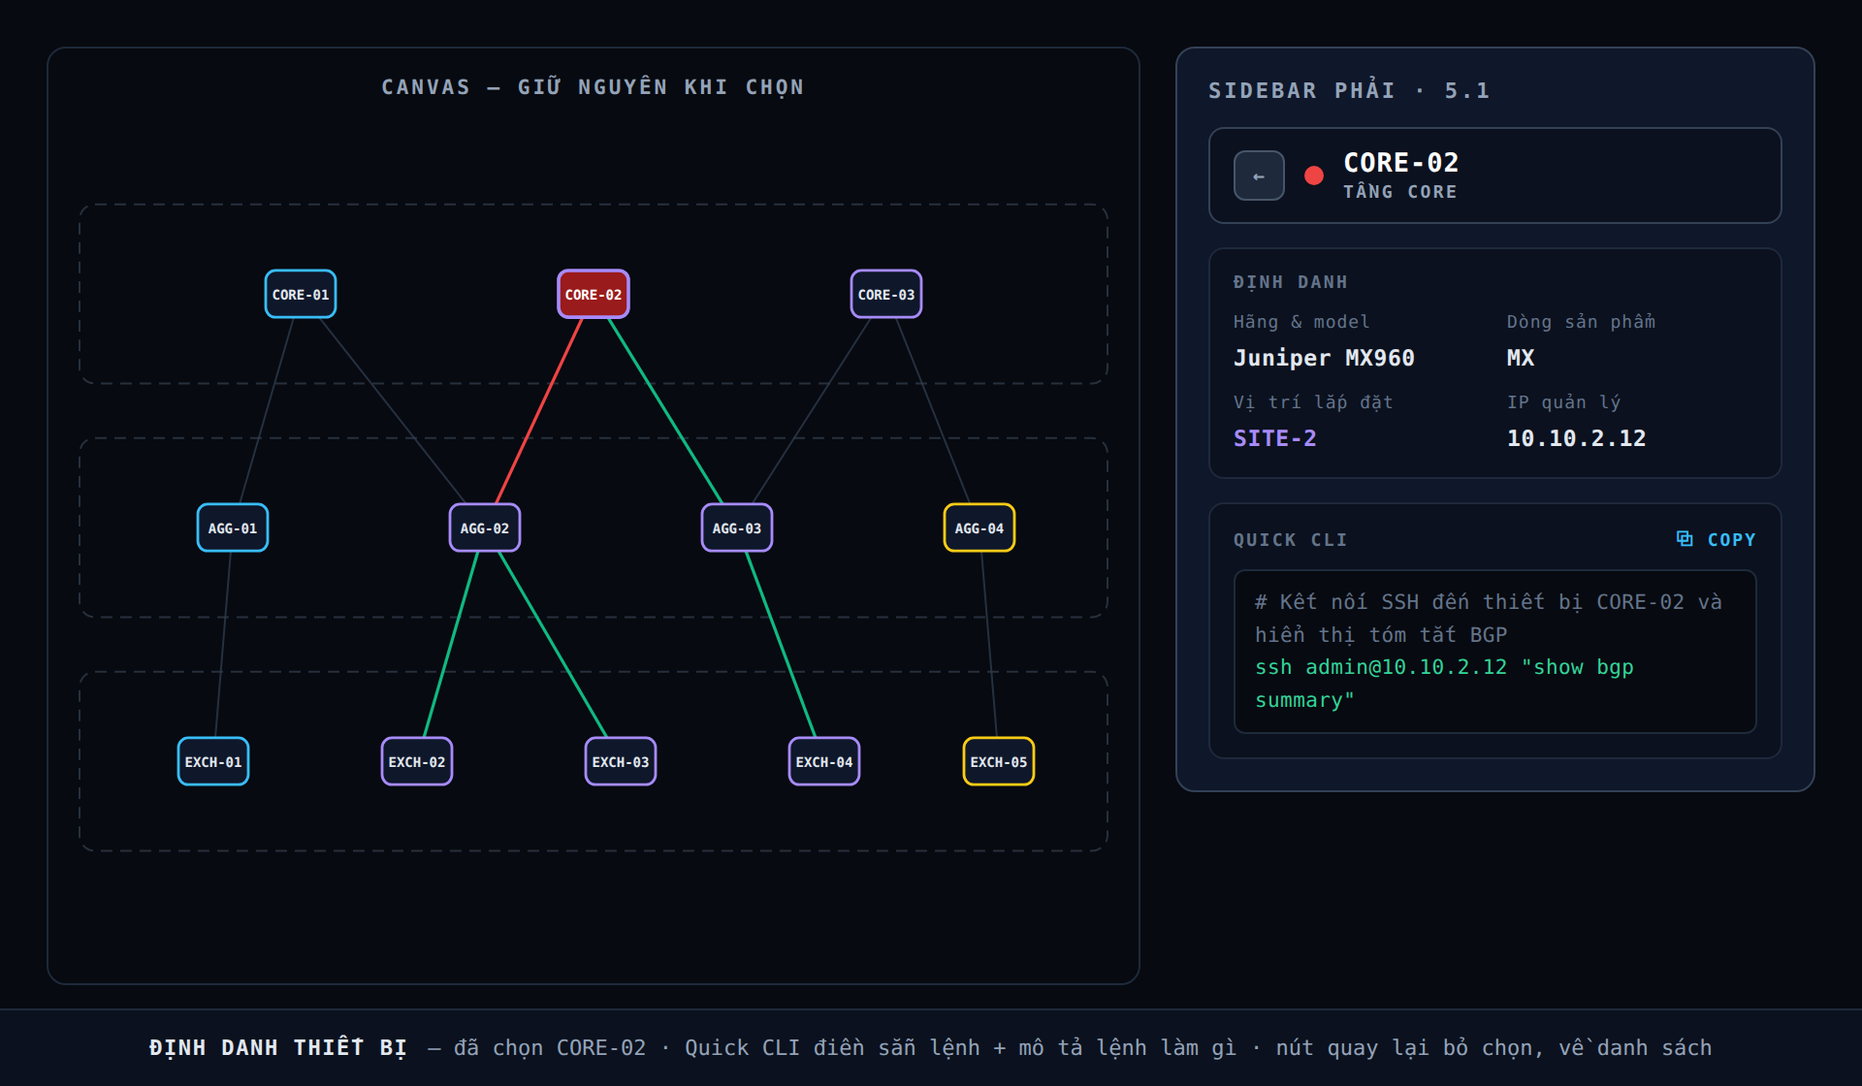
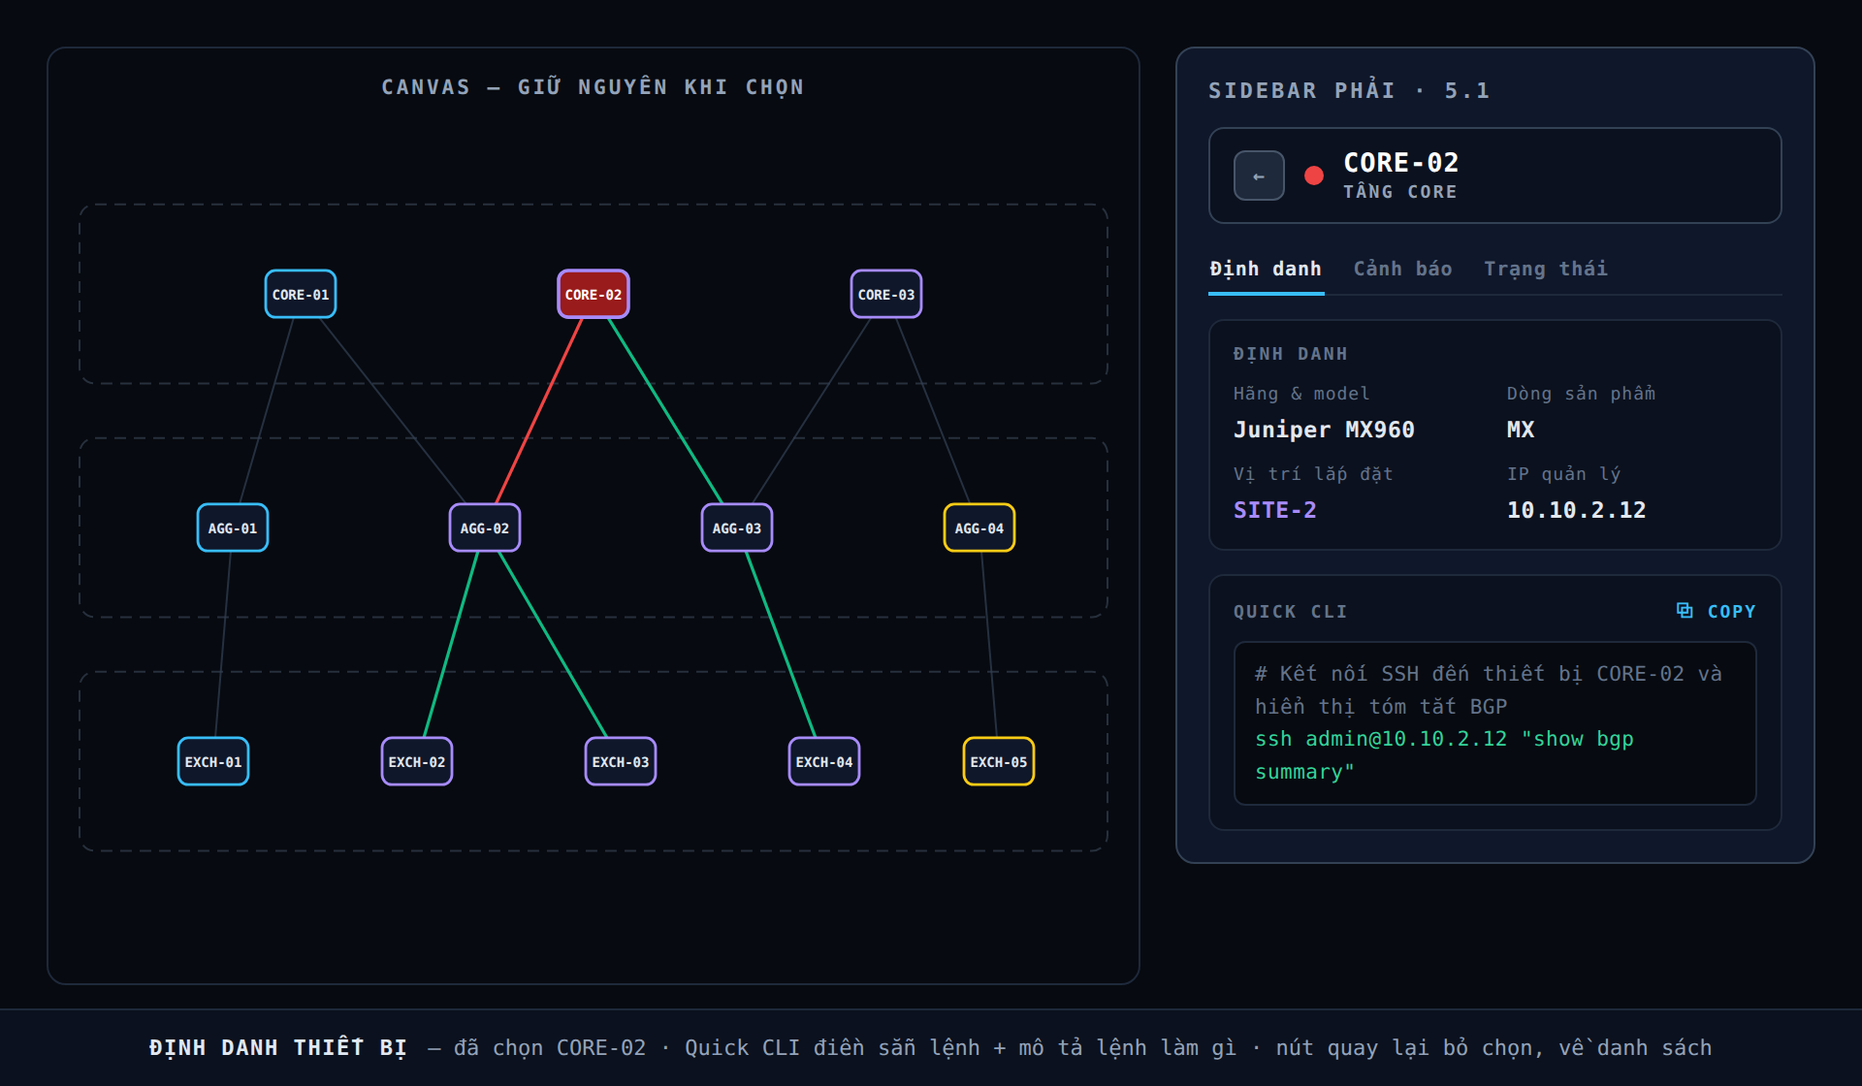
feat: Update chapter 5.1 in stylebook

Changed region(s): [[0.625, 0.2188, 1.0, 0.8125]]

diff --git a/docs/week04-ui-ux-design/stylebook/stylebook.html b/docs/week04-ui-ux-design/stylebook/stylebook.html
@@ -30,7 +30,7 @@
   <a href="#rule-3-5">3.5 Node focus</a>
   <div class="t">Chương 4 · Sidebar trái</div>
   <a href="#rule-4-1">4.1 Tìm kiếm</a>
-  <a href="#rule-4-2">4.2 Timeline báo động</a>
+  <a href="#rule-4-2">4.2 Timeline cảnh báo</a>
   <a href="#rule-4-3">4.3 Giả thuyết AI Top 3</a>
   <a href="#rule-4-4">4.4 Cài đặt hiển thị</a>
   <div class="t">Chương 5 · Sidebar phải</div>
@@ -904,7 +904,7 @@
       <p>Hover là kênh thông tin thể hiện đầy đủ các thông tin của một node hoặc edge:</p>
       <ul>
         <li>Tooltip hiện theo con trỏ, mất khi rời — hover không làm canvas thay đổi.</li>
-        <li>Tooltip node gồm: ID, trạng thái sức khỏe, site, IP quản lý, model, CPU · bộ nhớ · nhiệt độ, số báo động đang mở.</li>
+        <li>Tooltip node gồm: ID, trạng thái sức khỏe, site, IP quản lý, model, CPU · bộ nhớ · nhiệt độ, số cảnh báo đang mở.</li>
         <li>Tooltip edge gồm: hai đầu kèm cổng, băng thông lắp đặt, mức sử dụng hiện tại, tỉ lệ lỗi.</li>
       </ul>
 
@@ -1061,7 +1061,7 @@
       <div class="toc-title">Mục lục chương</div>
       <ol>
         <li><a href="#rule-4-1">4.1 Tìm kiếm</a></li>
-        <li><a href="#rule-4-2">4.2 Timeline báo động</a></li>
+        <li><a href="#rule-4-2">4.2 Timeline cảnh báo</a></li>
         <li><a href="#rule-4-3">4.3 Giả thuyết AI Top 3</a></li>
         <li><a href="#rule-4-4">4.4 Cài đặt hiển thị</a></li>
       </ol>
@@ -1096,30 +1096,30 @@
     </section>
 
     <section class="rule" id="rule-4-2">
-      <h2><span class="sec-num">4.2</span>Timeline báo động</h2>
-      <p>Tab Timeline báo động thể hiện các báo động theo dòng thời gian:</p>
+      <h2><span class="sec-num">4.2</span>Timeline cảnh báo</h2>
+      <p>Tab Timeline cảnh báo thể hiện các cảnh báo theo dòng thời gian:</p>
       <ul>
-        <li>Alarm hiện dạng cấu trúc trên trục thời gian: thời điểm, mã lỗi, thiết bị, nội dung; mức warning/error mã hoá bằng màu chấm. Mới nhất ở trên.</li>
-        <li>Bấm một alarm → canvas pan + focus thiết bị (mục 3.5).</li>
+        <li>Cảnh báo hiện dạng cấu trúc trên trục thời gian: thời điểm, mã lỗi, thiết bị, nội dung; mức warning/error mã hoá bằng màu chấm. Mới nhất ở trên.</li>
+        <li>Bấm một cảnh báo → canvas pan + focus thiết bị (mục 3.5).</li>
         <li>Bấm mã lỗi → panel tài liệu trượt ra sát mép trái canvas, đè lên một phần topology. Bấm nút × hoặc Esc để đóng; canvas trở về đúng trạng thái trước đó.</li>
         <li>Tài liệu là lớp đọc tạm thời trên layer riêng — canvas không bao giờ bị thay thế. Wiki đầy đủ mở ở tab mới (hệ thống ngoài), không nhúng vào dashboard.</li>
       </ul>
 
       <figure class="specimen">
         <div class="spec-head">
-          <div class="spec-name"><span class="no">HÌNH 4.2A</span>Timeline báo động — canvas giữ nguyên</div>
+          <div class="spec-name"><span class="no">HÌNH 4.2A</span>Timeline cảnh báo — canvas giữ nguyên</div>
         </div>
         <div class="stage">
-          <img src="images/fig-4-2a.png" alt="Ảnh tĩnh: timeline báo động trong sidebar trái — các alarm xếp trên trục thời gian với chấm màu theo mức, mới nhất ở trên; canvas giữ nguyên trạng thái mặc định">
+          <img src="images/fig-4-2a.png" alt="Ảnh tĩnh: timeline cảnh báo trong sidebar trái — các cảnh báo xếp trên trục thời gian với chấm màu theo mức, mới nhất ở trên; canvas giữ nguyên trạng thái mặc định">
         </div>
       </figure>
 
       <figure class="specimen">
         <div class="spec-head">
-          <div class="spec-name"><span class="no">HÌNH 4.2B</span>Bấm alarm — canvas pan + focus thiết bị</div>
+          <div class="spec-name"><span class="no">HÌNH 4.2B</span>Bấm cảnh báo — canvas pan + focus thiết bị</div>
         </div>
         <div class="stage">
-          <img src="images/fig-4-2b.png" alt="Ảnh tĩnh: alarm ALM-2035 của CORE-02 được đánh dấu chọn trong timeline; canvas pan về CORE-02 — beacon bao quanh, vùng K bằng 2 giữ nguyên hiển thị, phần còn lại mờ đi">
+          <img src="images/fig-4-2b.png" alt="Ảnh tĩnh: cảnh báo ALM-2035 của CORE-02 được đánh dấu chọn trong timeline; canvas pan về CORE-02 — beacon bao quanh, vùng K bằng 2 giữ nguyên hiển thị, phần còn lại mờ đi">
         </div>
       </figure>
 
@@ -1491,7 +1491,7 @@ document.querySelectorAll('section.rule').forEach(s => obs.observe(s));
     const c = CHIP[d.status];
     return '<div class="t-head"><span class="t-id">' + d.id + '</span><span><span class="t-dot" style="background:' + c[0] + '"></span>' + c[1] + '</span></div>'
       + row('Site', d.site) + row('IP quản lý', d.ip) + row('Model', d.model)
-      + row('CPU · Bộ nhớ · Nhiệt độ', d.metrics) + row('Báo động đang mở', d.alarms);
+      + row('CPU · Bộ nhớ · Nhiệt độ', d.metrics) + row('Cảnh báo đang mở', d.alarms);
   };
   const edgeTip = d => '<div class="t-head"><span class="t-id">' + d.a + ' → ' + d.b + '</span></div>'
     + row('Băng thông', d.cap) + row('Mức sử dụng', d.util) + row('Tỉ lệ lỗi', d.err);

diff --git a/docs/week04-ui-ux-design/stylebook/figures/fig-5-1-da-chon.html b/docs/week04-ui-ux-design/stylebook/figures/fig-5-1-da-chon.html
@@ -20,6 +20,9 @@
   .i-head i { width: 10px; height: 10px; border-radius: 50%; background: #ef4444; flex: none; }
   .i-head .id { font-size: 13.5px; font-weight: 800; color: #ffffff; letter-spacing: 0.5px; }
   .i-head .tier { font-size: 9px; font-weight: 800; letter-spacing: 1.2px; color: #94a3b8; margin-top: 2px; }
+  .i-ribbon { display: flex; gap: 14px; border-bottom: 1px solid #1e293b; margin-top: 12px; }
+  .i-ribbon .rt { font-size: 10px; font-weight: 700; letter-spacing: 0.4px; color: #64748b; padding: 5px 1px 6px; border-bottom: 2px solid transparent; margin-bottom: -1px; }
+  .i-ribbon .rt.on { color: #e2e8f0; border-bottom-color: #38bdf8; }
 
   .spec { margin-top: 12px; background: #0b111e; border: 1px solid #1e293b; border-radius: 8px; padding: 12px; }
   .spec .lab { font-size: 9px; font-weight: 800; letter-spacing: 1.2px; color: #64748b; margin-bottom: 10px; }
@@ -108,6 +111,12 @@
           <div class="id">CORE-02</div>
           <div class="tier">TẦNG CORE</div>
         </div>
+      </div>
+
+      <div class="i-ribbon">
+        <span class="rt on">Định danh</span>
+        <span class="rt">Cảnh báo</span>
+        <span class="rt">Trạng thái</span>
       </div>
 
       <div class="spec">

diff --git a/docs/week04-ui-ux-design/stylebook/figures/fig-4-2-focus.html b/docs/week04-ui-ux-design/stylebook/figures/fig-4-2-focus.html
@@ -2,7 +2,7 @@
 <html lang="vi">
 <head>
 <meta charset="UTF-8">
-<title>HÌNH 4.2B — Timeline báo động: đã chọn</title>
+<title>HÌNH 4.2B — Timeline cảnh báo: đã chọn</title>
 <style>
   * { box-sizing: border-box; }
   body { margin: 0; background: #070a10; font-family: ui-monospace, SFMono-Regular, Menlo, Consolas, monospace; }
@@ -133,14 +133,14 @@
         <circle cx="281" cy="96" r="30" fill="none" stroke="#e2e8f0" stroke-width="2"/>
        </g>
       </svg>
-      <div class="c-label">CANVAS — SAU KHI BẤM ALARM</div>
+      <div class="c-label">CANVAS — SAU KHI BẤM CẢNH BÁO</div>
     </div>
 
   </div>
 
   <div class="note">
-    <span class="n1">TIMELINE BÁO ĐỘNG</span>
-    <span class="n3">— bấm alarm → canvas pan + focus thiết bị</span>
+    <span class="n1">TIMELINE CẢNH BÁO</span>
+    <span class="n3">— bấm cảnh báo → canvas pan + focus thiết bị</span>
   </div>
 
 </div>

diff --git a/docs/week04-ui-ux-design/stylebook/figures/fig-4-2-timeline.html b/docs/week04-ui-ux-design/stylebook/figures/fig-4-2-timeline.html
@@ -2,7 +2,7 @@
 <html lang="vi">
 <head>
 <meta charset="UTF-8">
-<title>HÌNH 4.2A — Timeline báo động</title>
+<title>HÌNH 4.2A — Timeline cảnh báo</title>
 <style>
   * { box-sizing: border-box; }
   body { margin: 0; background: #070a10; font-family: ui-monospace, SFMono-Regular, Menlo, Consolas, monospace; }
@@ -135,8 +135,8 @@
   </div>
 
   <div class="note">
-    <span class="n1">TIMELINE BÁO ĐỘNG</span>
-    <span class="n3">— mọi phiên điều tra bắt đầu từ một báo động · canvas giữ nguyên</span>
+    <span class="n1">TIMELINE CẢNH BÁO</span>
+    <span class="n3">— mọi phiên điều tra bắt đầu từ một cảnh báo · canvas giữ nguyên</span>
   </div>
 
 </div>

diff --git a/docs/week04-ui-ux-design/stylebook/figures/fig-0-1-khung-dashboard.html b/docs/week04-ui-ux-design/stylebook/figures/fig-0-1-khung-dashboard.html
@@ -60,7 +60,7 @@
       <div class="r-name">SIDEBAR TRÁI</div>
       <div class="r-sub">ĐIỀU HƯỚNG · CHƯƠNG 4</div>
       <div class="search">Tìm kiếm…</div>
-      <div class="grp"><div class="g-t">BÁO ĐỘNG</div><div class="bar w100"></div><div class="bar w70"></div></div>
+      <div class="grp"><div class="g-t">CẢNH BÁO</div><div class="bar w100"></div><div class="bar w70"></div></div>
       <div class="grp"><div class="g-t">GIẢ THUYẾT AI</div><div class="bar w100"></div><div class="bar w76"></div></div>
       <div class="grp"><div class="g-t">CÀI ĐẶT</div><div class="bar w100"></div><div class="bar w58"></div></div>
     </aside>

diff --git a/docs/week04-ui-ux-design/stylebook/chapters/05-inspector.md b/docs/week04-ui-ux-design/stylebook/chapters/05-inspector.md
@@ -1,14 +1,15 @@
 # Chương 5: Khung dashboard — Phần 5: Sidebar phải — Inspector
 
-> **5.1 đã viết nội dung đầy đủ; 5.2–5.6 còn skeleton.** Quyết định đã chốt nằm trong `docs/week04-ui-ux-design/design-decisions.md` (§5–§9, gồm tóm tắt research yêu cầu).
+> **5.0–5.2 đã viết nội dung đầy đủ; 5.3–5.6 còn skeleton.** Quyết định đã chốt nằm trong `docs/week04-ui-ux-design/design-decisions.md` (§5–§9, gồm tóm tắt research yêu cầu).
 > Văn phong theo các chương trước. Mọi số liệu "chốt khi dựng". Trường chưa có data ghi "chờ data".
 
 ---
 
 ## Mục lục chương
 
+- 5.0 Nguyên tắc chung
 - 5.1 Định danh thiết bị
-- 5.2 Alarm có cấu trúc
+- 5.2 Cảnh báo
 - 5.3 Trạng thái hiện tại & Live telemetry
 - 5.4 Direct neighbors
 - 5.5 Edge inspector
@@ -16,30 +17,42 @@
 
 ---
 
-## 5.1 Định danh thiết bị
+## 5.0 Nguyên tắc chung
 
-Bấm chọn một node trên canvas để đưa Inspector về ngữ cảnh thiết bị đó:
+Các Tab thuộc Inspector hiển thị thông tin xoay quanh thiết bị mà kỹ sư đang chọn:
 
-- Bấm một node là chọn: Inspector chuyển ngữ cảnh thiết bị đó.
-- Khi chưa có lựa chọn nào, Inspector mở sẵn danh sách thiết bị sắp xếp theo thứ tự bảng chữ cái của ID.
+- Khi kỹ sư không chọn thiết bị nào, Inspector sẽ thể hiện danh sách thiết bị.
+- Khi kỹ sư chọn một thiết bị thì các tab Inspector sẽ đều thể hiện thông tin của thiết bị đó. Ví dụ Tab định danh thiết bị (mục 5.1) sẽ thể hiện thông tin của thiết bị và Tab cảnh báo (mục 5.2) sẽ thể hiện cảnh báo của chính thiết bị đó.
+- Đang chọn thiết bị, đầu Inspector luôn hiện dải định danh: nút quay lại, chấm trạng thái sức khỏe, ID và tầng thiết bị — chrome chung nằm trên thanh tab, mọi tab đều thấy.
+- Đang chọn thiết bị, dưới dải định danh là thanh tab để chuyển giữa các tab; tab đang mở được đánh dấu bằng gạch chân. Bấm một tab khác → nội dung tab đó hiện ngay, thiết bị đang chọn giữ nguyên.
 - Bấm một dòng trong danh sách → chọn thiết bị đó, canvas pan đưa node về giữa — như tìm kiếm (mục 4.1).
-- Khi đang hiển thị thông tin thiết bị được chọn, đầu khung có nút quay lại để bỏ chọn — Inspector trở về danh sách thiết bị.
+- Nút quay lại ở dải định danh bỏ chọn — Inspector trở về danh sách thiết bị.
 - Khi Inspector đang đóng, nếu bấm chọn một node sẽ tự mở lại khung.
-- Khối định danh gồm: chấm trạng thái sức khỏe, ID và tầng thiết bị ở đầu khung; bên dưới là hãng sản xuất, model, dòng sản phẩm, vị trí lắp đặt và IP quản lý.
-- Ngay dưới khối định danh là khung Quick CLI: câu lệnh truy vấn trạng thái đã điền sẵn ngữ cảnh thiết bị đang chọn, kèm một dòng mô tả ngắn câu lệnh làm gì và nút copy một lần bấm — trạng thái thiết bị vốn được đọc bằng câu lệnh truy vấn vì vậy khung này giúp cho kỹ sư không cần gõ lại lệnh mỗi lần điều tra.
-
-[Illustration 5.1A: ảnh tĩnh — chưa chọn gì; Inspector mở danh sách thiết bị xếp theo thứ tự bảng chữ cái của ID]
-
-[Illustration 5.1B: ảnh tĩnh — đã chọn một node; Inspector hiện khối định danh đầy đủ và khung Quick CLI kèm dòng mô tả lệnh làm gì và nút copy; đầu khung có nút quay lại để bỏ chọn]
 
 ---
 
-## 5.2 Alarm có cấu trúc
+## 5.1 Định danh thiết bị
 
-- Alarm của thiết bị + **alarm liên quan trên thiết bị khác cùng khung thời gian** — xếp cạnh nhau theo mốc thời gian (pain point week02 §II.1).
-- Cần data: alarm object (gói a — design-decisions §9).
+Tab định danh thiết bị là nơi lưu thông tin cụ thể của thiết bị mà kỹ sư đang chọn:
 
-[Illustration: chốt khi dựng]
+- Tab định danh gồm: hãng sản xuất, model, dòng sản phẩm, vị trí lắp đặt và IP quản lý.
+- Ngay dưới khối thông tin là khung Quick CLI: câu lệnh truy vấn trạng thái đã điền sẵn ngữ cảnh thiết bị đang chọn, kèm một dòng mô tả ngắn câu lệnh làm gì và nút copy một lần bấm — trạng thái thiết bị vốn được đọc bằng câu lệnh truy vấn vì vậy khung này giúp cho kỹ sư không cần gõ lại lệnh mỗi lần điều tra.
+
+[Illustration 5.1A: ảnh tĩnh — chưa chọn gì; Inspector mở danh sách thiết bị xếp theo thứ tự bảng chữ cái của ID]
+
+[Illustration 5.1B: ảnh tĩnh — đã chọn một node; đầu Inspector là dải định danh chung và thanh tab với tab Định danh đang mở; tab hiện thông tin hãng, model, dòng sản phẩm, vị trí lắp đặt, IP quản lý và khung Quick CLI kèm dòng mô tả lệnh làm gì và nút copy]
+
+---
+
+## 5.2 Cảnh báo
+
+Tab cảnh báo là nơi lưu thông tin tất cả cảnh báo (gồm cả cảnh báo thuộc sự cố hiện tại và cảnh báo không thuộc sự cố hiện tại) của thiết bị mà kỹ sư đang chọn:
+
+- Mỗi cảnh báo một dòng gồm thời điểm, mã lỗi, mức độ warning/error mã hoá bằng màu chấm như timeline (mục 4.2).
+- Bấm một cảnh báo → Inspector hiển thị thông tin chi tiết về cảnh báo đó.
+- Bấm mã lỗi → panel tài liệu trượt ra sát mép trái canvas như mục 4.2; wiki đầy đủ mở tab mới.
+
+[Illustration 5.2: ảnh tĩnh — đang chọn CORE-02; tab Cảnh báo liệt kê các cảnh báo của CORE-02; canvas giữ nguyên]
 
 ---
 

diff --git a/docs/week04-ui-ux-design/stylebook/chapters/04-sidebar-left.md b/docs/week04-ui-ux-design/stylebook/chapters/04-sidebar-left.md
@@ -8,7 +8,7 @@
 ## Mục lục chương
 
 - 4.1 Tìm kiếm
-- 4.2 Timeline báo động
+- 4.2 Timeline cảnh báo
 - 4.3 Giả thuyết AI Top 3
 - 4.4 Cài đặt hiển thị
 
@@ -28,18 +28,18 @@ Tab Tìm kiếm giúp kỹ sư xác định node trên topology dựa trên từ
 
 ---
 
-## 4.2 Timeline báo động
+## 4.2 Timeline cảnh báo
 
-Tab Timeline báo động thể hiện các báo động theo dòng thời gian:
+Tab Timeline cảnh báo thể hiện các cảnh báo theo dòng thời gian:
 
-- Alarm hiện dạng cấu trúc trên trục thời gian: thời điểm, mã lỗi, thiết bị, nội dung; mức warning/error mã hoá bằng màu chấm. Mới nhất ở trên.
-- Bấm một alarm → canvas pan + focus thiết bị (mục 3.5).
+- Cảnh báo hiện dạng cấu trúc trên trục thời gian: thời điểm, mã lỗi, thiết bị, nội dung; mức warning/error mã hoá bằng màu chấm. Mới nhất ở trên.
+- Bấm một cảnh báo → canvas pan + focus thiết bị (mục 3.5).
 - Bấm mã lỗi → panel tài liệu trượt ra sát mép trái canvas, đè lên một phần topology. Bấm nút × hoặc Esc để đóng; canvas trở về đúng trạng thái trước đó.
 - Tài liệu là lớp đọc tạm thời trên layer riêng — canvas không bao giờ bị thay thế. Wiki đầy đủ mở ở tab mới (hệ thống ngoài), không nhúng vào dashboard.
 
-[Illustration 4.2A: ảnh tĩnh — timeline báo động trong sidebar trái; canvas giữ nguyên]
+[Illustration 4.2A: ảnh tĩnh — timeline cảnh báo trong sidebar trái; canvas giữ nguyên]
 
-[Illustration 4.2B: ảnh tĩnh — bấm alarm của CORE-02; canvas pan + focus thiết bị đó]
+[Illustration 4.2B: ảnh tĩnh — bấm cảnh báo của CORE-02; canvas pan + focus thiết bị đó]
 
 [Illustration 4.2C: ảnh tĩnh — bấm mã lỗi; panel tài liệu mở trên phần trái canvas, topology vẫn thấy bên phải]
 

diff --git a/docs/week04-ui-ux-design/stylebook/chapters/00-dashboard-frame.md b/docs/week04-ui-ux-design/stylebook/chapters/00-dashboard-frame.md
@@ -11,7 +11,7 @@ Dashboard gồm bốn vùng. Trong đó thì canvas hiển thị topology chiế
 
 Mỗi vùng kèm ghi chú "thuộc chương nào" — bản mục lục không gian của tài liệu.
 
-Header mỏng chỉ gồm brand + trạng thái sự cố đang mở (mã, trạng thái, thời điểm mở — week03 §III.3.a mục 1). Đã bỏ khỏi header: stats đếm (router/leaf/link), badge "N CRITICAL ALARMS" (trùng danh sách báo động), presets node nhanh, nút Fit/Reset zoom. Cần data: incident (gói a).
+Header mỏng chỉ gồm brand + trạng thái sự cố đang mở (mã, trạng thái, thời điểm mở — week03 §III.3.a mục 1). Đã bỏ khỏi header: stats đếm (router/leaf/link), badge "N CRITICAL ALARMS" (trùng danh sách cảnh báo), presets node nhanh, nút Fit/Reset zoom. Cần data: incident (gói a).
 
 Còn sống trên canvas: legend màu site góc dưới-trái — một hàng bốn swatch SITE-1…SITE-4, không có tier (tier đọc qua nhãn dải nền) — và cụm nút Fit / + / − nổi. Legend cũng là chỗ gắn chip quick-focus site (mục 4.4). Breadcrumb đã bỏ: canvas không có drill-down, beacon đã giữ vết các node đã tới, Inspector đã mô tả node đang chọn.
 

diff --git a/docs/week04-ui-ux-design/stylebook/chapters/03-topology-interactions.md b/docs/week04-ui-ux-design/stylebook/chapters/03-topology-interactions.md
@@ -51,7 +51,7 @@ Kéo một node để đổi vị trí của nó:
 Hover là kênh thông tin thể hiện đầy đủ các thông tin của một node hoặc edge:
 
 - Tooltip hiện theo con trỏ, mất khi rời — hover không làm canvas thay đổi.
-- Tooltip node gồm: ID, trạng thái sức khỏe, site, IP quản lý, model, CPU · bộ nhớ · nhiệt độ, số báo động đang mở.
+- Tooltip node gồm: ID, trạng thái sức khỏe, site, IP quản lý, model, CPU · bộ nhớ · nhiệt độ, số cảnh báo đang mở.
 - Tooltip edge gồm: hai đầu kèm cổng, băng thông lắp đặt, mức sử dụng hiện tại, tỉ lệ lỗi.
 
 [Illustration là demo tương tác: di chuột lên node hoặc edge — tooltip đi theo con trỏ với đầy đủ trường thông tin, mất khi rời]
